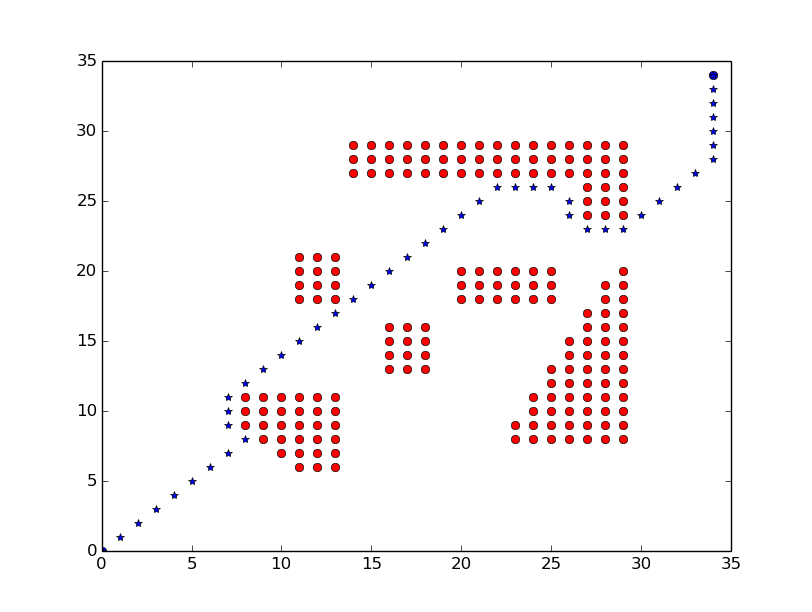
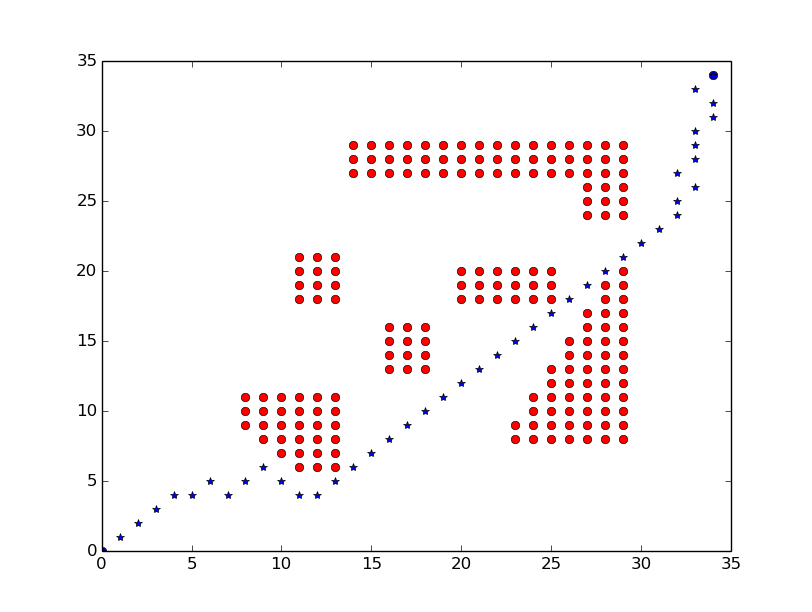
updated 20161115

diff --git a/Misc/pathplanning.py b/Misc/pathplanning.py
@@ -55,7 +55,7 @@ class PathPlanning:
         if not (self.astar_res == None):
             plt_x = [pt[0] for pt in self.astar_res]
             plt_y = [pt[1] for pt in self.astar_res]
-            plt.plot(plt_x, plt_y, 'b-')
+            plt.plot(plt_x, plt_y, 'b*')
 
         plt.show()
 
@@ -64,14 +64,15 @@ class PathPlanning:
             pt[1] >= 0 and pt[1] < self.MAP_SIZE and \
             self.M[pt] == 0
 
-    def dijkstra_step(self, curr, tgt, neighbours, distance, previous, unvisited):
+    def dijkstra_step(self, curr, tgt, distance, previous, unvisited):
         if (self.inRange(tgt) and tgt in unvisited):
-            if (not tgt in neighbours):
-                neighbours.append(tgt)
+
             tentative_dist = distance[curr] + 1
             if (tentative_dist < distance[tgt]):
                 distance[tgt] = tentative_dist
                 previous[tgt] = curr
+                print "previous of %s is %s" %(str(tgt), str(curr))
+        return
 
     def dijkstra(self, start, end):
         # input: start and end are lists of len 2
@@ -81,7 +82,7 @@ class PathPlanning:
         unvisited = {} # 2x1 list to double
         previous = {}
         distance = {}
-        neighbours = [] # queue of 2x1 list
+
         for x in range(self.MAP_SIZE):
             for y in range(self.MAP_SIZE):
                 if not self.inRange((x,y)):
@@ -91,63 +92,142 @@ class PathPlanning:
                 previous[(x,y)] = None
 
         distance[start] = 0
-        neighbours.append(start)
-        while (len(neighbours) > 0):
+
+        while (len(unvisited) > 0):
+            #print "len of unvisited is %d" %len(unvisited)
             mindist = np.inf
             mincoord = None
-            for i in range(len(neighbours)):
-                if distance[neighbours[i]] < mindist:
-                    mincoord = i
-            curr = neighbours.pop(i)
-            unvisited.pop(curr)
+            for pt in unvisited:
+                if distance[pt] < mindist:
+                    mindist = distance[pt]
+                    mincoord = pt
+            print "mindist = %d, mincoord = %s" %(mindist, str(mincoord))
 
+            if (mindist == np.inf):
+                self.dijkstra_res = None
+                return
+
+            curr = mincoord
+            unvisited.pop(curr)
             if (curr == end):
                 respath = [end]
                 x = end
 
                 while(x != start):
-                    
+                    print "x=%s" %str(x)
                     respath.insert(0, previous[x])
                     x = previous[x]
                     # assume no cycle specified bt the previous
                 self.dijkstra_res = respath
                 return
 
-            tgt = (curr[0]-1, curr[1]-1)
-            self.dijkstra_step(curr, tgt, neighbours, distance, previous, unvisited)
+
+
 
             tgt = (curr[0], curr[1]-1)
-            self.dijkstra_step(curr, tgt, neighbours, distance, previous, unvisited)
-
-            tgt = (curr[0]+1, curr[1]-1)
-            self.dijkstra_step(curr, tgt, neighbours, distance, previous, unvisited)
-
-            tgt = (curr[0]-1, curr[1])
-            self.dijkstra_step(curr, tgt, neighbours, distance, previous, unvisited)
-
-            tgt = (curr[0]+1, curr[1])
-            self.dijkstra_step(curr, tgt, neighbours, distance, previous, unvisited)
-
-            tgt = (curr[0]-1, curr[1]+1)
-            self.dijkstra_step(curr, tgt, neighbours, distance, previous, unvisited)
+            self.dijkstra_step(curr, tgt, distance, previous, unvisited)
 
             tgt = (curr[0], curr[1]+1)
-            self.dijkstra_step(curr, tgt, neighbours, distance, previous, unvisited)
+            self.dijkstra_step(curr, tgt, distance, previous, unvisited)
+
+            tgt = (curr[0]-1, curr[1])
+            self.dijkstra_step(curr, tgt, distance, previous, unvisited)
+
+            tgt = (curr[0]+1, curr[1])
+            self.dijkstra_step(curr, tgt, distance, previous, unvisited)
+
+            tgt = (curr[0]+1, curr[1]-1)
+            self.dijkstra_step(curr, tgt, distance, previous, unvisited)
+
+            tgt = (curr[0]-1, curr[1]+1)
+            self.dijkstra_step(curr, tgt, distance, previous, unvisited)
+
+
+
+            tgt = (curr[0]-1, curr[1]-1)
+            self.dijkstra_step(curr, tgt, distance, previous, unvisited)
 
             tgt = (curr[0]+1, curr[1]+1)
-            self.dijkstra_step(curr, tgt, neighbours, distance, previous, unvisited)
-
+            self.dijkstra_step(curr, tgt, distance, previous, unvisited)
 
 
 
         self.dijkstra_res = "None"
         return
 
+    def astar_step(self, curr, tgt, fvalues, previous, unvisited):
+        if (self.inRange(tgt) and tgt in unvisited):
+            tentative_f = fvalues[curr] + 1 + \
+                math.sqrt(tgt[0] ** 2 + tgt[1] ** 2)
+            if (tentative_f < fvalues[tgt]):
+                fvalues[tgt] = tentative_f
+                previous[tgt] = curr
+        return
+
+
     def astar(self, start, end):
-        pass
+        unvisited = {}
+        fvalues = {}
+        previous = {}
+
+        for x in range(self.MAP_SIZE):
+            for y in range(self.MAP_SIZE):
+                if (self.M[x][y] == 0):
+                    unvisited[(x,y)] = True
+                    previous[(x,y)] = None
+                    fvalues[(x,y)] = np.inf
+
+        fvalues[start] = 0
+        while(len(unvisited) > 0):
+            minfvalue = np.inf
+            mincoord = None
+            for pt in unvisited:
+                if (fvalues[pt] < minfvalue):
+                    minfvalue = fvalues[pt]
+                    mincoord = pt
+            curr = mincoord
+            if (minfvalue == np.inf):
+                self.astar_res = None
+                return
+
+            unvisited.pop(curr)
+
+            if (curr == end):
+                respath = [end]
+                x = end
+                while (x != start):
+                    respath.insert(0, previous[x])
+                    x = previous[x]
+                self.astar_res = respath
+                return
+
+            tgt = (curr[0]-1, curr[1]-1)
+            self.astar_step(curr, tgt, fvalues, previous, unvisited)
+
+            tgt = (curr[0], curr[1]-1)
+            self.astar_step(curr, tgt, fvalues, previous, unvisited)
+
+            tgt = (curr[0]+1, curr[1]-1)
+            self.astar_step(curr, tgt, fvalues, previous, unvisited)
+
+            tgt = (curr[0]-1, curr[1])
+            self.astar_step(curr, tgt, fvalues, previous, unvisited)
+
+            tgt = (curr[0]+1, curr[1])
+            self.astar_step(curr, tgt, fvalues, previous, unvisited)
+
+            tgt = (curr[0]-1, curr[1]+1)
+            self.astar_step(curr, tgt, fvalues, previous, unvisited)
+
+            tgt = (curr[0], curr[1]+1)
+            self.astar_step(curr, tgt, fvalues, previous, unvisited)
+
+            tgt = (curr[0]+1, curr[1]+1)
+            self.astar_step(curr, tgt, fvalues, previous, unvisited)
 
 
 if __name__ == "__main__":
     p = PathPlanning()
     p.dijkstra((0,0), (34,34))
+    #p.astar((0, 0), (34,34))
     p.plotMap()

diff --git a/Lejos_project/PizzaDelivery.java b/Lejos_project/PizzaDelivery.java
@@ -1,0 +1,48 @@
+import lejos.hardware.motor.*;
+import lejos.hardware.Button;
+import lejos.hardware.lcd.*;
+import lejos.hardware.port.SensorPort;
+import lejos.hardware.sensor.EV3UltrasonicSensor;
+import java.lang.Math;
+import java.util.ArrayList;
+import java.util.*;
+
+public class PizzaDelivery {
+
+    private double lambda_wheel = 1.0; // TODO
+
+    private static void turnLeft(int theta, Motor mleft, Motor mright) {
+        mleft.setSpeed(100);
+        mright.setSpeed(-100);
+        mleft.rotate((int)(theta * lambda_wheel));
+        mright.rotate((int)(theta * lambda_wheel));
+    }
+
+    private static void turnRight(int theta) {
+
+    }
+
+    private static void clampHand(Motor motor) {
+
+    }
+    public static void main(String[] args) throws Exception {
+
+        double pizzaLocX = 0.0;
+        double pizzaLocY = 0.5;
+        while (!Button.LEFT.isDown() && !Button.RIGHT.isDown()) {
+            ;
+        }
+
+        if (Button.LEFT.isDown()) {
+            pizzaLocX = -3.0;
+        } else {
+            pizzaLocX = 3.0;
+        }
+
+        Motor.A.setSpeed(10);
+        Motor.B.setSpeed(100);
+        Motor.C.setSpeed(100);
+
+        turnLeft(90);
+    }
+}

diff --git a/Misc/kalman.m b/Misc/kalman.m
@@ -30,8 +30,9 @@ xlabel('time step');
 ylabel('x');
 print('NoNoise', '-dpng');
 
+x_baseline = x;
 %% Apply noise, no Kalman
-clear all; clc;
+close all; clc;
 x0 = 100;
 x_tgt = 0;
 x = [x0];
@@ -52,13 +53,13 @@ for k = 1:sim_time
 end
 figure;
 plot(x);
-title(strcat('Applied noise: r=20, std(x)=', num2str(std(x))));
+title(strcat('Applied noise: r=20, std(x-x_{base})=', num2str(std(x-x_baseline))));
 xlabel('time step');
 ylabel('x');
 print('WithNoise_r=20', '-dpng');
 
 %% Kalman filter
-clear all;clc;close all;
+clc;close all;
 x0 = 100;
 x_tgt = 0;
 x = [x0];     % estimated x values
@@ -68,7 +69,7 @@ ze = [];      % estimation of measurement
 u = [-10];    % Need this random initialization
 sim_time = 100;
 
-r = 20;
+r = 1;
 x_k = x0;
 
 K = 0.1;
@@ -102,9 +103,10 @@ for k = 2:sim_time
 end
 figure;
 plot(xtrue);
-title(strcat('Kalman with noise: r=20, std(x)=', num2str(std(xtrue))));
+xtrue = [x0 xtrue]
+title(strcat('Kalman with noise: r=1, std(x-x_{base})=', num2str(std(xtrue-x_baseline))));
 xlabel('time step');
 ylabel('x');
-print('KalmanWithNoise_r=20', '-dpng');
+print('KalmanWithNoise_r=1', '-dpng');
 
 

diff --git a/Lejos_project/PickUpMotorTest.java b/Lejos_project/PickUpMotorTest.java
@@ -1,0 +1,11 @@
+import lejos.hardware.motor.*;
+
+public class PickUpMotorTest {
+
+    public static void main(String[] args) {
+        Motor.A.setSpeed(100);
+        Motor.A.rotate(-900); // Let it open completely
+
+        Motor.A.rotate(100);
+    }
+}

diff --git a/Lejos_project/plans.md b/Lejos_project/plans.md
@@ -1,0 +1,26 @@
+Plan
+===
+### Algorithm
+(1) Pick up pizza, determined by the key press  
+(2) Then go back, start recording and follow blue boundary line.  
+(3) Go to either one of blue, red, and green route. Calculate the distance.  
+(4) Teach and repeat. Come back.
+
+### A better idea
+(1) Pick the pizza.  
+(2) Go directly into the obstacles. Use sensor on the side to detect, so that the car can go around the obstacle.  
+(3) Meanwhile, use the odometer in each motor to calculate the current location of the robot.  
+
+
+### Hardware requirement:
+- 2 servo motors for steering  
+- 2 servo motors to pick up pizza  
+- 1 color sensor facing down, to keep track of the route  
+- 1 ultrasound sensor facing front, detecting obstacles  
+- Total 6 ports utilized.  
+
+### Data
+齿轮比：
+  最小的是8  
+  黄色的是12  
+  四孔灰色24  
